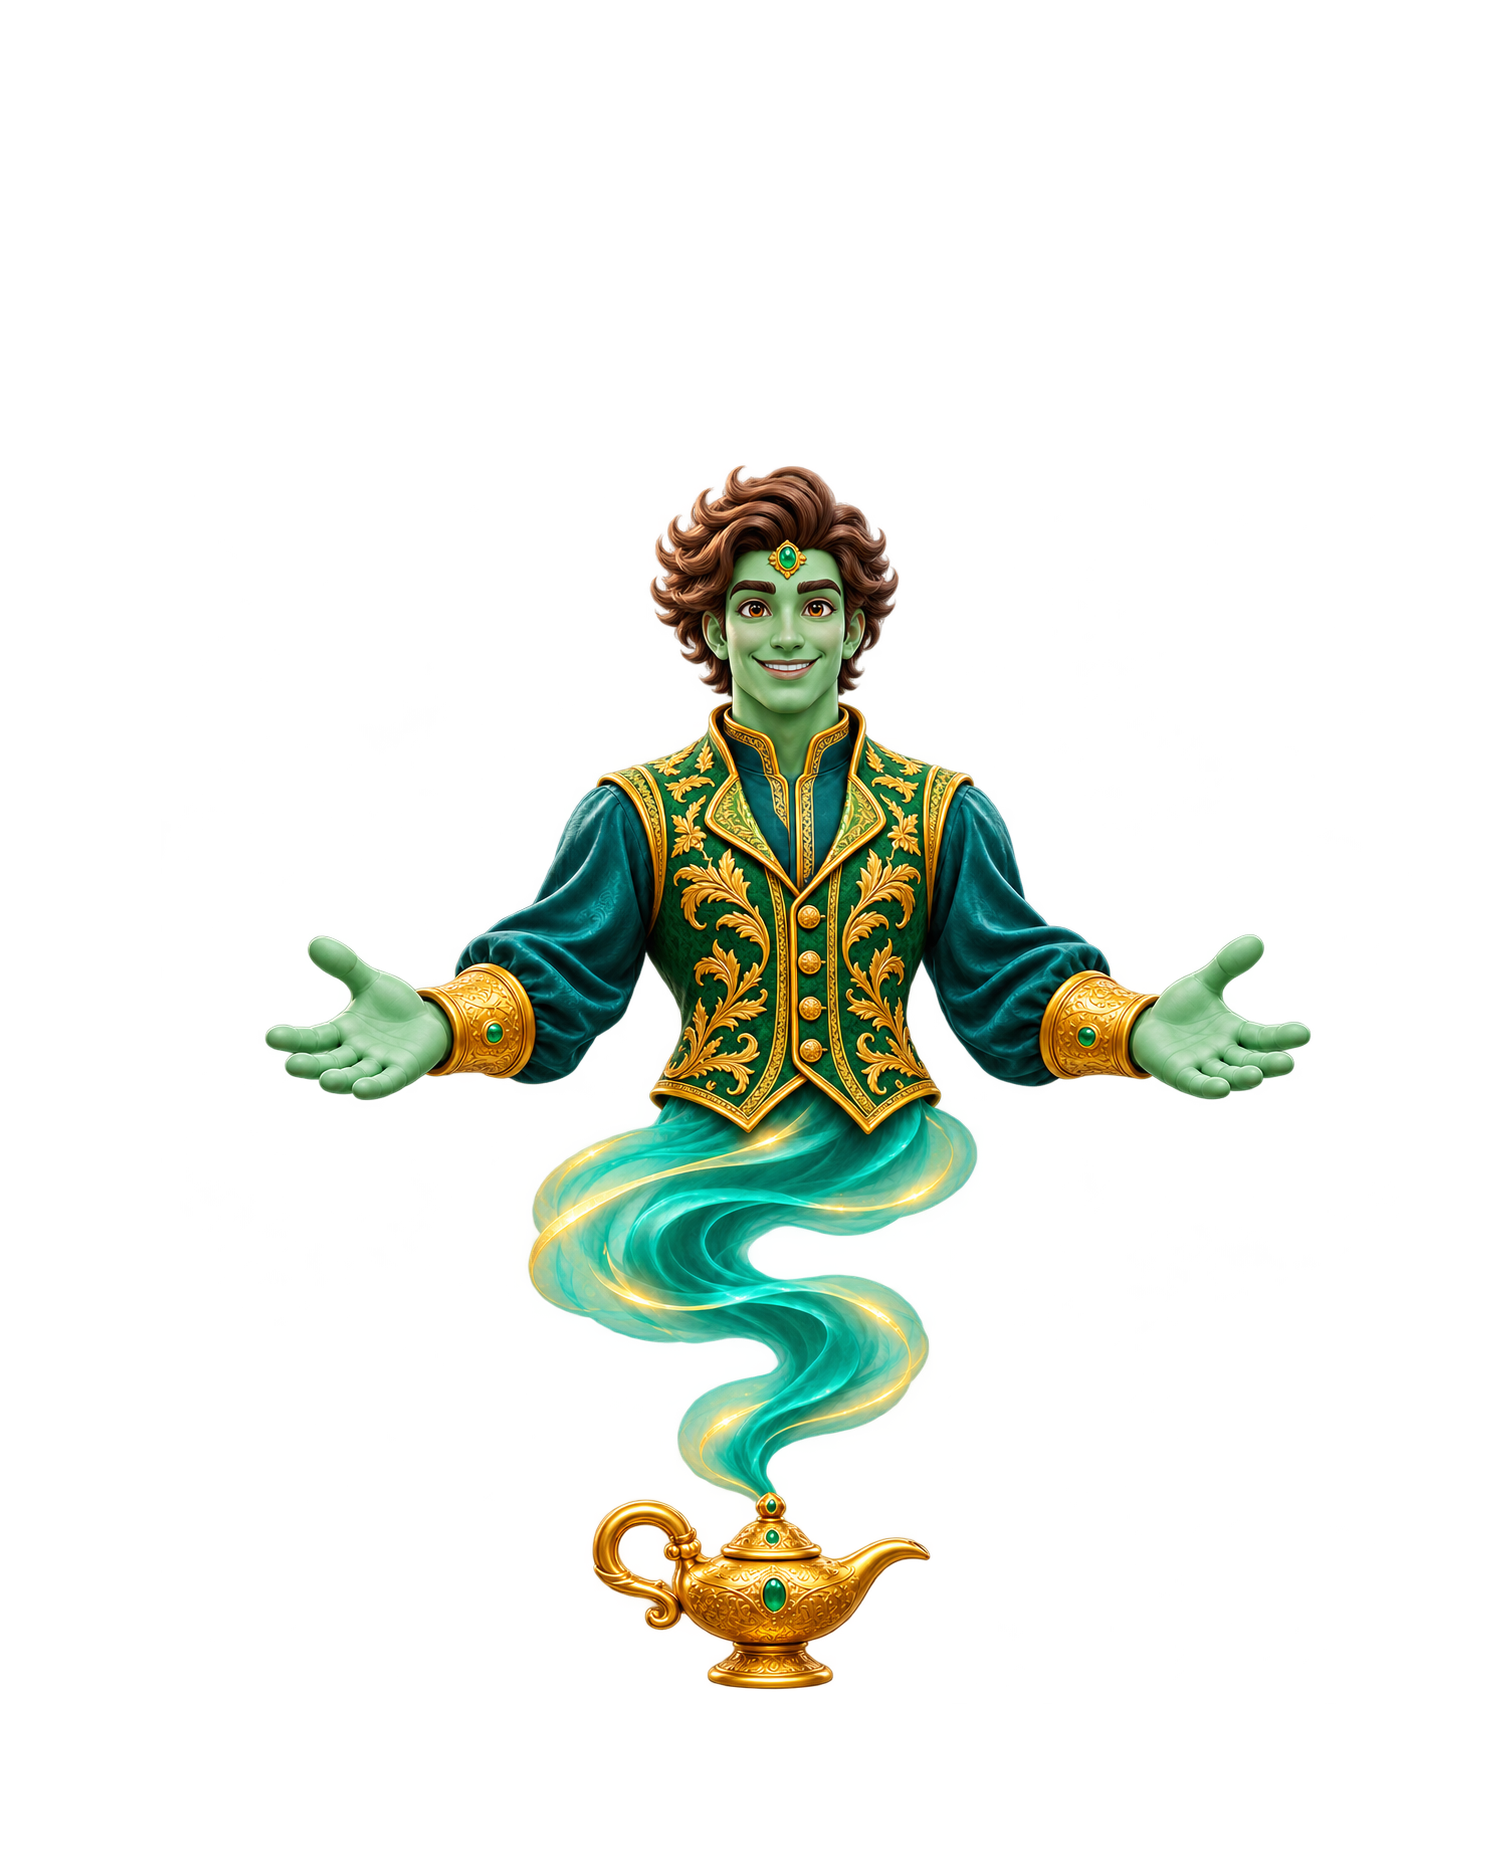
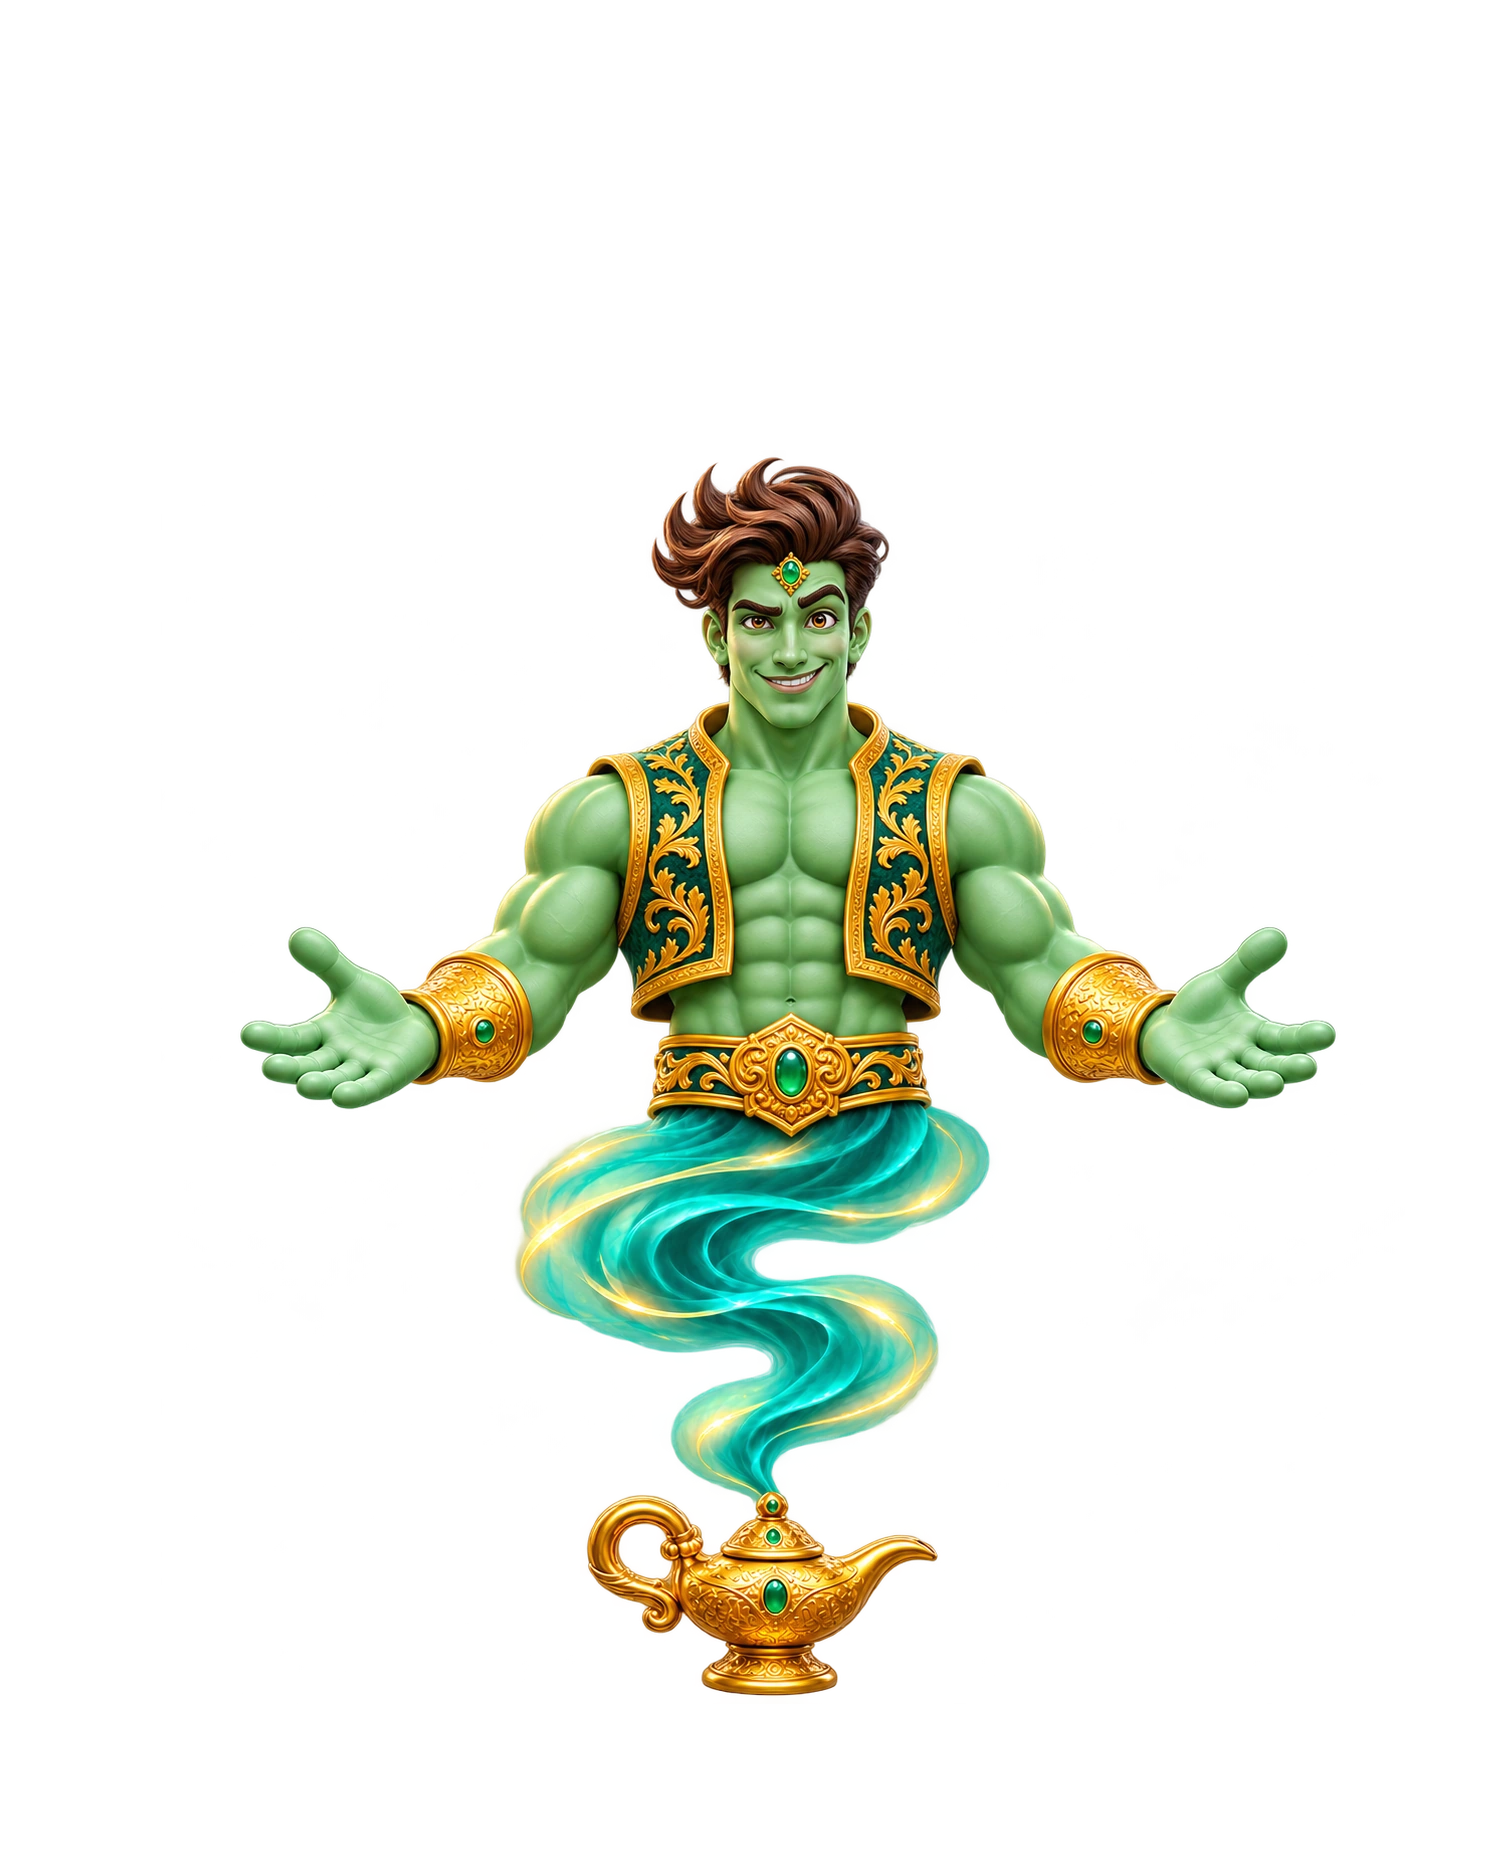
Replace desert genie with the approved muscular pompadour artwork

Changed region(s): [[0.1533, 0.2475, 0.8893, 0.928]]

diff --git a/event/20261118_blind_box/alternatives/assets/js/spirit-motion-frontal-robed.js b/event/20261118_blind_box/alternatives/assets/js/spirit-motion-frontal-robed.js
@@ -1,0 +1,198 @@
+// Native-resolution mesh animation; each pose is rendered from the original texture.
+function createSpiritRig(canvas, source) {
+  const gl = canvas.getContext('webgl', {alpha:true, premultipliedAlpha:true, antialias:true});
+  if (!gl) throw new Error('WebGL unavailable');
+  const vs = `attribute vec2 point;
+uniform float phase;
+uniform float mood;
+const vec2 leftShoulder = vec2(458., 355.);
+const vec2 rightShoulder = vec2(794., 355.);
+const vec2 leftEye = vec2(597., 162.);
+const vec2 rightEye = vec2(659., 162.);
+const vec2 leftBrow = vec2(596., 140.);
+const vec2 rightBrow = vec2(661., 140.);
+const vec2 mouth = vec2(628., 215.);
+const float waist = 651.;
+const float smokeEnd = 1049.;
+varying vec2 uv;
+
+float mask(vec2 p, vec2 center, vec2 core, vec2 spread) {
+  vec2 d = abs(p - center);
+  return (1. - smoothstep(core.x, spread.x, d.x)) *
+         (1. - smoothstep(core.y, spread.y, d.y));
+}
+vec2 turn(vec2 p, vec2 pivot, float angle) {
+  float c = cos(angle), s = sin(angle);
+  return pivot + mat2(c, s, -s, c) * (p - pivot);
+}
+
+void main() {
+  uv = (point + vec2(161.,450.)) / vec2(1500.,1875.);
+  vec2 p = point;
+  float excited = step(2.5, mood);
+  float celebration = step(.5, mood) * (1. - step(1.5, mood));
+  float encourage = step(1.5, mood) * (1. - step(2.5, mood));
+  float time = phase / 6.283185307;
+  float breath = .5 - .5 * cos(phase);
+  float ready = excited * smoothstep(.02, .25, time) * (1. - smoothstep(.71, .98, time));
+  float gesture = smoothstep(.02, .24, time) * (1. - smoothstep(.69, .98, time));
+  float cheer = celebration * gesture * (.8 + .2 * cos(phase * 2.));
+  float waveHand = encourage * gesture * (.36 + .12 * sin(phase * 3.));
+  float arms = smoothstep(leftShoulder.y - 65., leftShoulder.y + 50., point.y)
+    * (1. - smoothstep(waist + 25., waist + 100., point.y));
+  float left = (1. - smoothstep(leftShoulder.x - 50., leftShoulder.x + 53., point.x)) * arms;
+  float right = smoothstep(rightShoulder.x - 53., rightShoulder.x + 50., point.x) * arms;
+  float upper = 1. - smoothstep(waist - 65., waist + 125., point.y);
+  float center = (leftShoulder.x + rightShoulder.x) * .5;
+  float chest = smoothstep(leftShoulder.y - 75., leftShoulder.y + 35., point.y) * upper;
+  float sway = sin(phase) * (1. - excited);
+  p.x += (point.x - center) * chest * (.022 * breath + .037 * ready);
+  p.y -= upper * (11. * breath + 12. * ready + 37. * cheer);
+  p.x += upper * 8. * sway;
+  p = mix(p, turn(p, leftShoulder, .034 * sway - .23 * ready + .46 * cheer), left);
+  p = mix(p, turn(p, rightShoulder, .034 * sway + .23 * ready - .46 * cheer - waveHand), right);
+  p.x += (center - point.x) * .12 * ready * max(left, right);
+  p.y += 10. * ready * max(left, right);
+
+  float head = 1. - smoothstep(240., 302., point.y);
+  vec2 faceCenter = (leftEye + rightEye) * .5;
+  p += (point - faceCenter) * (.042 * ready) * head;
+  float blink = smoothstep(.47, .53, time) * (1. - smoothstep(.53, .59, time));
+  blink *= 1. - excited;
+  float eyeOpen = .28 * ready - .92 * blink;
+  float wink = encourage * smoothstep(.2, .34, time) * (1. - smoothstep(.49, .63, time));
+  // Center the lid movements on each iris to retain eye contact.
+  p.y += (point.y - leftEye.y) * (eyeOpen - .92 * wink - .24 * cheer) * mask(point,leftEye,vec2(11.,7.),vec2(24.,18.));
+  p.y += (point.y - rightEye.y) * (eyeOpen - .25 * cheer) * mask(point,rightEye,vec2(11.,7.),vec2(24.,18.));
+  p.y -= (7.5 * ready + 1.7 * breath + 5. * cheer) * max(
+    mask(point,leftBrow,vec2(15.,4.),vec2(29.,13.)),
+    mask(point,rightBrow,vec2(15.,4.),vec2(29.,13.))
+  );
+  float lip = mask(point,mouth,vec2(32.,12.),vec2(51.,31.));
+  p.x += (point.x - mouth.x) * (.14 * ready + .12 * cheer) * lip;
+  p.y += (point.y - mouth.y) * (.28 * ready - .10 * breath + .42 * cheer - .16 * encourage * gesture) * lip;
+  float hum = smoothstep(waist + 10., waist + 100., point.y) *
+    (1. - smoothstep(smokeEnd - 145., smokeEnd, point.y));
+  float strand = point.y * .012;
+  p.x += hum * (17. + 18. * ready + 30. * cheer) * (sin(strand + phase) - sin(strand));
+  p.y += hum * 10. * (cos(strand + phase) - cos(strand));
+  vec2 outp = (p + vec2(161., 450.)) / vec2(1500., 1875.);
+  gl_Position = vec4(outp.x * 2. - 1., 1. - outp.y * 2., 0., 1.);
+}`;
+  const fs=`precision mediump float; varying vec2 uv; uniform sampler2D art;
+  void main(){vec4 c=texture2D(art,uv);gl_FragColor=c;}`;
+  function compile(type, code) {
+    const shader = gl.createShader(type);
+    gl.shaderSource(shader, code);
+    gl.compileShader(shader);
+    if (!gl.getShaderParameter(shader, gl.COMPILE_STATUS)) throw new Error(gl.getShaderInfoLog(shader));
+    return shader;
+  }
+
+  const program = gl.createProgram();
+  for (const shader of [compile(gl.VERTEX_SHADER, vs), compile(gl.FRAGMENT_SHADER, fs)]) {
+    gl.attachShader(program, shader);
+    gl.deleteShader(shader);
+  }
+  gl.linkProgram(program);
+  if (!gl.getProgramParameter(program, gl.LINK_STATUS)) throw new Error(gl.getProgramInfoLog(program));
+  gl.useProgram(program);
+
+  // Use smaller triangles around the eyes and lips without increasing the whole mesh density.
+  function gridAxis(faceStart, faceEnd) {
+    const marks = [];
+    for (let v = 0; v < faceStart; v += 14) marks.push(v);
+    for (let v = faceStart; v < faceEnd; v += 3) marks.push(v);
+    for (let v = faceEnd; v < 1254; v += 14) marks.push(v);
+    marks.push(1254);
+    return marks;
+  }
+  const columns = gridAxis(552, 707);
+  const rows = gridAxis(123, 248);
+  const stride = columns.length;
+  const vertices = [];
+  const indices = [];
+  for (let y = 0; y < rows.length; y++) {
+    for (let x = 0; x < stride; x++) {
+      vertices.push(columns[x], rows[y]);
+      if (x === stride - 1 || y === rows.length - 1) continue;
+      const i = y * stride + x;
+      indices.push(i, i + 1, i + stride, i + 1, i + stride + 1, i + stride);
+    }
+  }
+  gl.bindBuffer(gl.ARRAY_BUFFER, gl.createBuffer());
+  gl.bufferData(gl.ARRAY_BUFFER, new Float32Array(vertices), gl.STATIC_DRAW);
+  gl.bindBuffer(gl.ELEMENT_ARRAY_BUFFER, gl.createBuffer());
+  gl.bufferData(gl.ELEMENT_ARRAY_BUFFER, new Uint16Array(indices), gl.STATIC_DRAW);
+  const point = gl.getAttribLocation(program, 'point');
+  gl.enableVertexAttribArray(point);
+  gl.vertexAttribPointer(point, 2, gl.FLOAT, false, 0, 0);
+
+  gl.bindTexture(gl.TEXTURE_2D, gl.createTexture());
+  gl.texParameteri(gl.TEXTURE_2D, gl.TEXTURE_MIN_FILTER, gl.LINEAR);
+  gl.texParameteri(gl.TEXTURE_2D, gl.TEXTURE_MAG_FILTER, gl.LINEAR);
+  gl.texParameteri(gl.TEXTURE_2D, gl.TEXTURE_WRAP_S, gl.CLAMP_TO_EDGE);
+  gl.texParameteri(gl.TEXTURE_2D, gl.TEXTURE_WRAP_T, gl.CLAMP_TO_EDGE);
+  gl.pixelStorei(gl.UNPACK_PREMULTIPLY_ALPHA_WEBGL, true);
+  gl.texImage2D(gl.TEXTURE_2D, 0, gl.RGBA, gl.RGBA, gl.UNSIGNED_BYTE, source);
+
+  const phase = gl.getUniformLocation(program, 'phase');
+  const mood = gl.getUniformLocation(program, 'mood');
+  const poses = {idle: 0, celebrate: 1, encourage: 2, anticipate: 3};
+  return function draw(frame, pose) {
+    gl.viewport(0, 0, canvas.width, canvas.height);
+    gl.clear(gl.COLOR_BUFFER_BIT);
+    gl.uniform1f(phase, (frame % 24) * Math.PI * 2 / 23);
+    gl.uniform1f(mood, poses[pose]);
+    gl.drawElements(gl.TRIANGLES, indices.length, gl.UNSIGNED_SHORT, 0);
+  };
+}
+
+export async function mountSpiritMotion(image) {
+  await image.decode();
+  const canvas = document.createElement('canvas');
+  canvas.className = image.className;
+  canvas.setAttribute('aria-hidden', 'true');
+  const draw = createSpiritRig(canvas, image);
+  let pose = 'idle', started = 0, timer = 0;
+  const frameMs = 1000 / 12;
+
+  function tick() {
+    const now = performance.now();
+    const frame = Math.floor((now - started) / frameMs);
+    const width = Math.min(1500, Math.max(576, Math.ceil(image.clientWidth * devicePixelRatio)));
+    if (width !== canvas.width) {
+      canvas.width = width;
+      canvas.height = Math.round(width * 1.25);
+    }
+    draw(frame, pose);
+    canvas.dataset.frame = String(frame % 24);
+    timer = setTimeout(tick, started + (frame + 1) * frameMs - now);
+  }
+
+  function sync() {
+    clearTimeout(timer);
+    const state = image.dataset.state;
+    pose = state === 'lose' ? 'encourage' : state || 'idle';
+    canvas.dataset.pose = pose;
+    const playing = image.dataset.motion === 'playing';
+    image.style.visibility = playing ? 'hidden' : '';
+    canvas.hidden = !playing;
+    if (playing) {
+      started = performance.now();
+      tick();
+    }
+  }
+
+  const observer = new MutationObserver(sync);
+  observer.observe(image, {attributes:true, attributeFilter:['data-state','data-motion']});
+  canvas.addEventListener('webglcontextlost', event => {
+    event.preventDefault();
+    observer.disconnect();
+    clearTimeout(timer);
+    canvas.remove();
+    image.style.visibility = '';
+  });
+  image.after(canvas);
+  sync();
+}

diff --git a/event/20261118_blind_box/assets/js/spirit-motion.js b/event/20261118_blind_box/assets/js/spirit-motion.js
@@ -5,15 +5,15 @@ function createSpiritRig(canvas, source) {
   const vs = `attribute vec2 point;
 uniform float phase;
 uniform float mood;
-const vec2 leftShoulder = vec2(458., 355.);
-const vec2 rightShoulder = vec2(794., 355.);
-const vec2 leftEye = vec2(597., 162.);
-const vec2 rightEye = vec2(659., 162.);
-const vec2 leftBrow = vec2(596., 140.);
-const vec2 rightBrow = vec2(661., 140.);
-const vec2 mouth = vec2(628., 215.);
-const float waist = 651.;
-const float smokeEnd = 1049.;
+const vec2 leftShoulder = vec2(434., 354.);
+const vec2 rightShoulder = vec2(820., 354.);
+const vec2 leftEye = vec2(601., 174.);
+const vec2 rightEye = vec2(662., 173.);
+const vec2 leftBrow = vec2(600., 152.);
+const vec2 rightBrow = vec2(662., 148.);
+const vec2 mouth = vec2(630., 221.);
+const float waist = 673.;
+const float smokeEnd = 1048.;
 varying vec2 uv;
 
 float mask(vec2 p, vec2 center, vec2 core, vec2 spread) {
@@ -64,13 +64,11 @@ void main() {
   // Center the lid movements on each iris to retain eye contact.
   p.y += (point.y - leftEye.y) * (eyeOpen - .92 * wink - .24 * cheer) * mask(point,leftEye,vec2(11.,7.),vec2(24.,18.));
   p.y += (point.y - rightEye.y) * (eyeOpen - .25 * cheer) * mask(point,rightEye,vec2(11.,7.),vec2(24.,18.));
-  p.y -= (7.5 * ready + 1.7 * breath + 5. * cheer) * max(
-    mask(point,leftBrow,vec2(15.,4.),vec2(29.,13.)),
-    mask(point,rightBrow,vec2(15.,4.),vec2(29.,13.))
-  );
+  p.y -= (5. * ready + 1.7 * breath + 5. * cheer) * mask(point,leftBrow,vec2(15.,4.),vec2(29.,13.));
+  p.y -= (9. * ready + 1.7 * breath + 5. * cheer) * mask(point,rightBrow,vec2(15.,4.),vec2(29.,13.));
   float lip = mask(point,mouth,vec2(32.,12.),vec2(51.,31.));
   p.x += (point.x - mouth.x) * (.14 * ready + .12 * cheer) * lip;
-  p.y += (point.y - mouth.y) * (.28 * ready - .10 * breath + .42 * cheer - .16 * encourage * gesture) * lip;
+  p.y += (point.y - mouth.y) * (.28 * ready - .10 * breath + .42 * cheer - .16 * encourage * gesture) * lip - 4. * ready * lip * smoothstep(5., 30., point.x - mouth.x);
   float hum = smoothstep(waist + 10., waist + 100., point.y) *
     (1. - smoothstep(smokeEnd - 145., smokeEnd, point.y));
   float strand = point.y * .012;
@@ -107,8 +105,8 @@ void main() {
     marks.push(1254);
     return marks;
   }
-  const columns = gridAxis(552, 707);
-  const rows = gridAxis(123, 248);
+  const columns = gridAxis(548, 720);
+  const rows = gridAxis(126, 256);
   const stride = columns.length;
   const vertices = [];
   const indices = [];

diff --git a/event/20261118_blind_box/index.html b/event/20261118_blind_box/index.html
@@ -162,7 +162,7 @@
       <span class="ev-asset ev-asset--rotate" data-asset="rotateHint" aria-hidden="true"></span>
     </div>
 
-    <script defer src="assets/js/config.js?v=20261119-frontal-genie"></script>
+    <script defer src="assets/js/config.js?v=20261119-muscle-genie"></script>
     <script defer src="../shared/unbox-3d/js/skin.js?v=20261118-vortex1"></script>
     <script defer src="../shared/unbox-3d/js/i18n.js?v=20261119-batch-open"></script>
     <script defer src="../shared/unbox-3d/js/store.js?v=20261119-fast-batch"></script>

diff --git a/event/20261118_blind_box/assets/js/config.js b/event/20261118_blind_box/assets/js/config.js
@@ -18,8 +18,8 @@ window.EVENT_CONFIG = {
   sceneArt: { height: 1125, horizonFromBottom: 660, horizonFraction: .5 },
   atmosphereMode: 'petals-and-sand',
   mascot: {
-    poster: 'assets/img/mascot/spirit/poster.webp?v=20261119-frontal-genie',
-    motion: 'assets/js/spirit-motion.js?v=20261119-frontal-genie',
+    poster: 'assets/img/mascot/spirit/poster.webp?v=20261119-muscle-genie',
+    motion: 'assets/js/spirit-motion.js?v=20261119-muscle-genie',
     loopMs: 2000, layout: 'hero'
   },
   shape: 'chest',

diff --git a/event/20261118_blind_box/docs/DESIGN_TASKS.md b/event/20261118_blind_box/docs/DESIGN_TASKS.md
@@ -179,4 +179,4 @@
 ## 2026-11-19 修訂
 舞台改為無建築的開闊沙漠：暖金色沙丘、暮色天空與近景沙地。移除柱廊、布簾、宮殿地磚與植物圖層，遠沙丘與近地面的焦點分別變化。
 
-神燈精靈保留年輕俏皮的臉、誇張表情、壯碩上身、雕刻金腕環、旋轉青金色煙霧下身；先製作多視圖設定，再產出待機呼吸、興奮、再接再厲三組關鍵姿勢。每段 48 幀／2000ms，保留 RGBA 序列與原始設定圖。載入失敗保留靜態基準圖；減少動態、離屏與結果覆蓋時顯示靜態圖。
+神燈精靈現行造型為飛機頭、敞開青金繡背心、外露胸肌與壯碩手臂，正面直視玩家並帶俏皮壞笑；保留雕刻金腕環、青金色煙霧與神燈。沿用待機呼吸、開箱前期待、中獎慶祝與再接再厲四段動作，每秒 12 幀、各 2000ms。原稿保留於 `source/desert-spirit-hd/master.png`；網頁貼圖使用保留透明的獨立壓縮 WebP。載入失敗、減少動態、離屏與結果覆蓋時顯示同款肌肉版靜態圖。

diff --git a/event/20261118_blind_box/README.md b/event/20261118_blind_box/README.md
@@ -59,3 +59,5 @@
 目前圖片及音效放 `assets/img/`、`assets/audio/`；未採用或廢棄版本統一放 `alternatives/`，詳見 [搬移索引](docs/ARCHIVE_20261119.json)。共用素材可由其他活動或 `event/shared/` 引用，不複製。
 
 人物暫時恢復重製前的既有素材（48 幀／2 秒）。低解析度 12fps 版本已退回 alternatives/source/spirit-lowres-12fps；新版高解析度人物暫緩，尚未交付，未來製作仍遵守 12fps 新規格。
+
+現行精靈為飛機頭肌肉版：敞開青金繡背心、正面直視玩家；保留待機、期待、慶祝與再接再厲四段動作。網頁貼圖 317,540 bytes（原稿 1,260,794 bytes），沿用 1500×1875 舞台畫布與控制項位置。舊正裝版保存在 alternatives，搬移索引見 docs/ARCHIVE_20261119.json。
